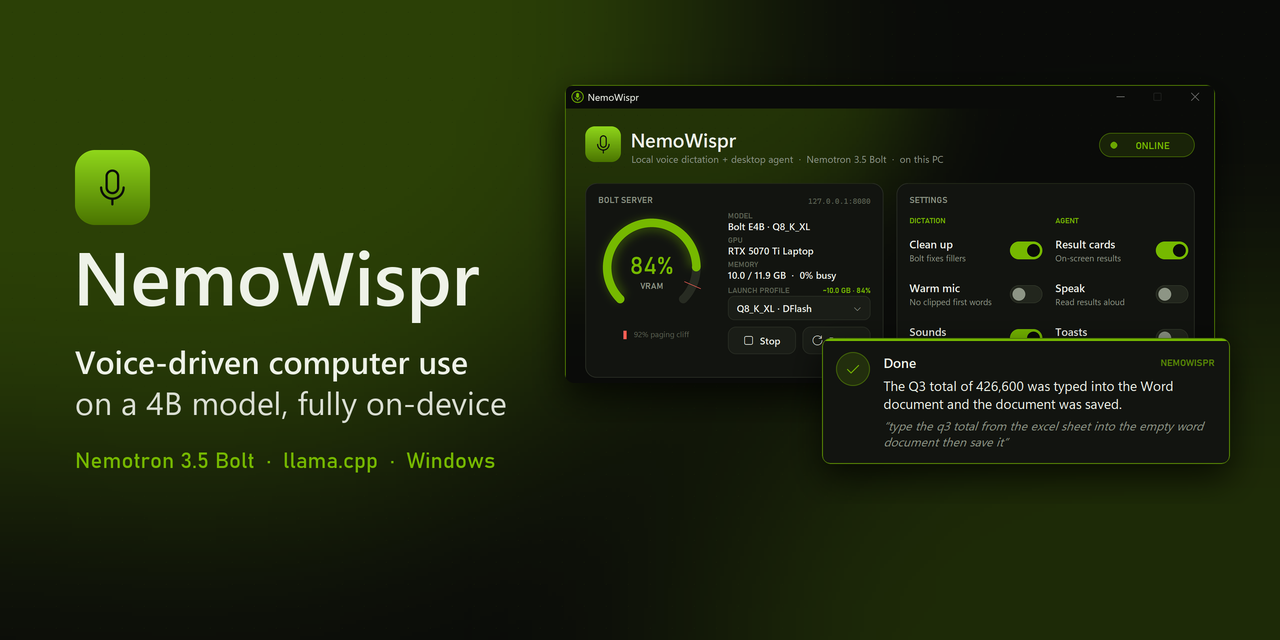
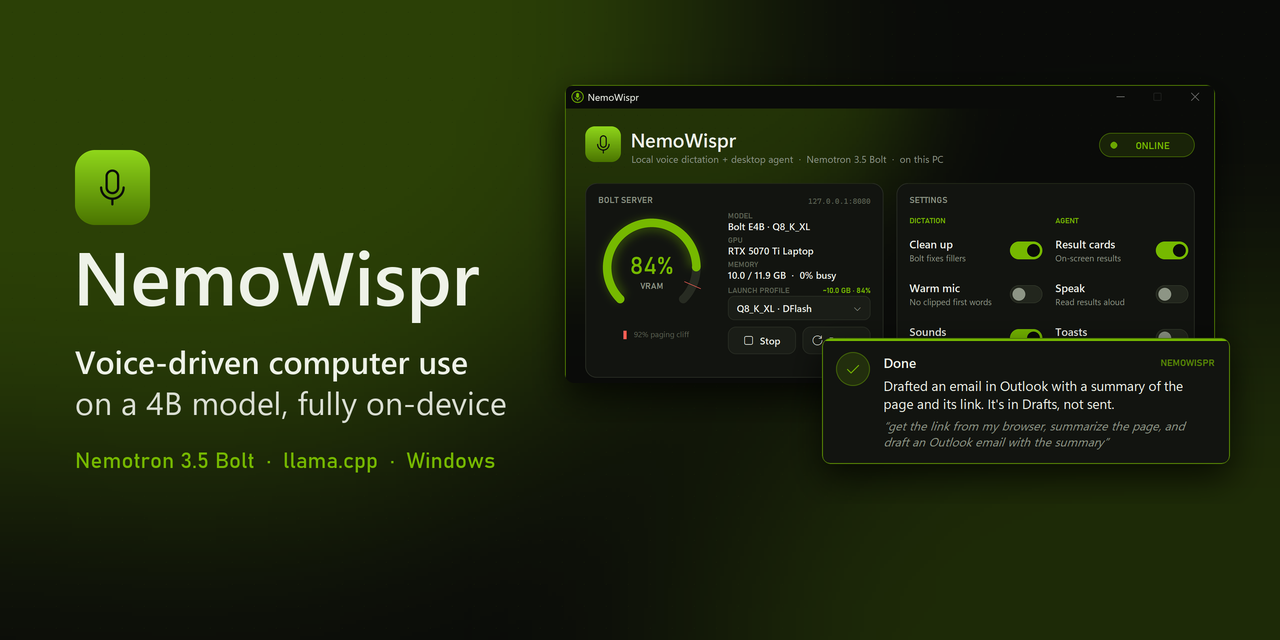
Cover: an agentic example on the result card
The card now shows a browser -> summary -> Outlook draft command (illustrative; the
draft isn't sent, since sending always needs the user's Yes).

Changed region(s): [[0.6875, 0.5938, 0.9375, 0.7188]]

diff --git a/README.md b/README.md
@@ -1,6 +1,6 @@
 # NemoWispr
 
-![NemoWispr: voice-driven computer use on a 4B model, fully on-device. The control panel shows Bolt online at 84% VRAM, and a green "Done" card from a voice command that copied a total from Excel into Word](docs/images/cover.png)
+![NemoWispr: voice-driven computer use on a 4B model, fully on-device. The control panel shows Bolt online at 84% VRAM, next to a "Done" card for the command "get the link from my browser, summarize the page, and draft an Outlook email with the summary"](docs/images/cover.png)
 
 Local, offline voice control for Windows, built on NVIDIA Nemotron 3.5 Bolt E4B ("Bolt") running in llama.cpp.
 
